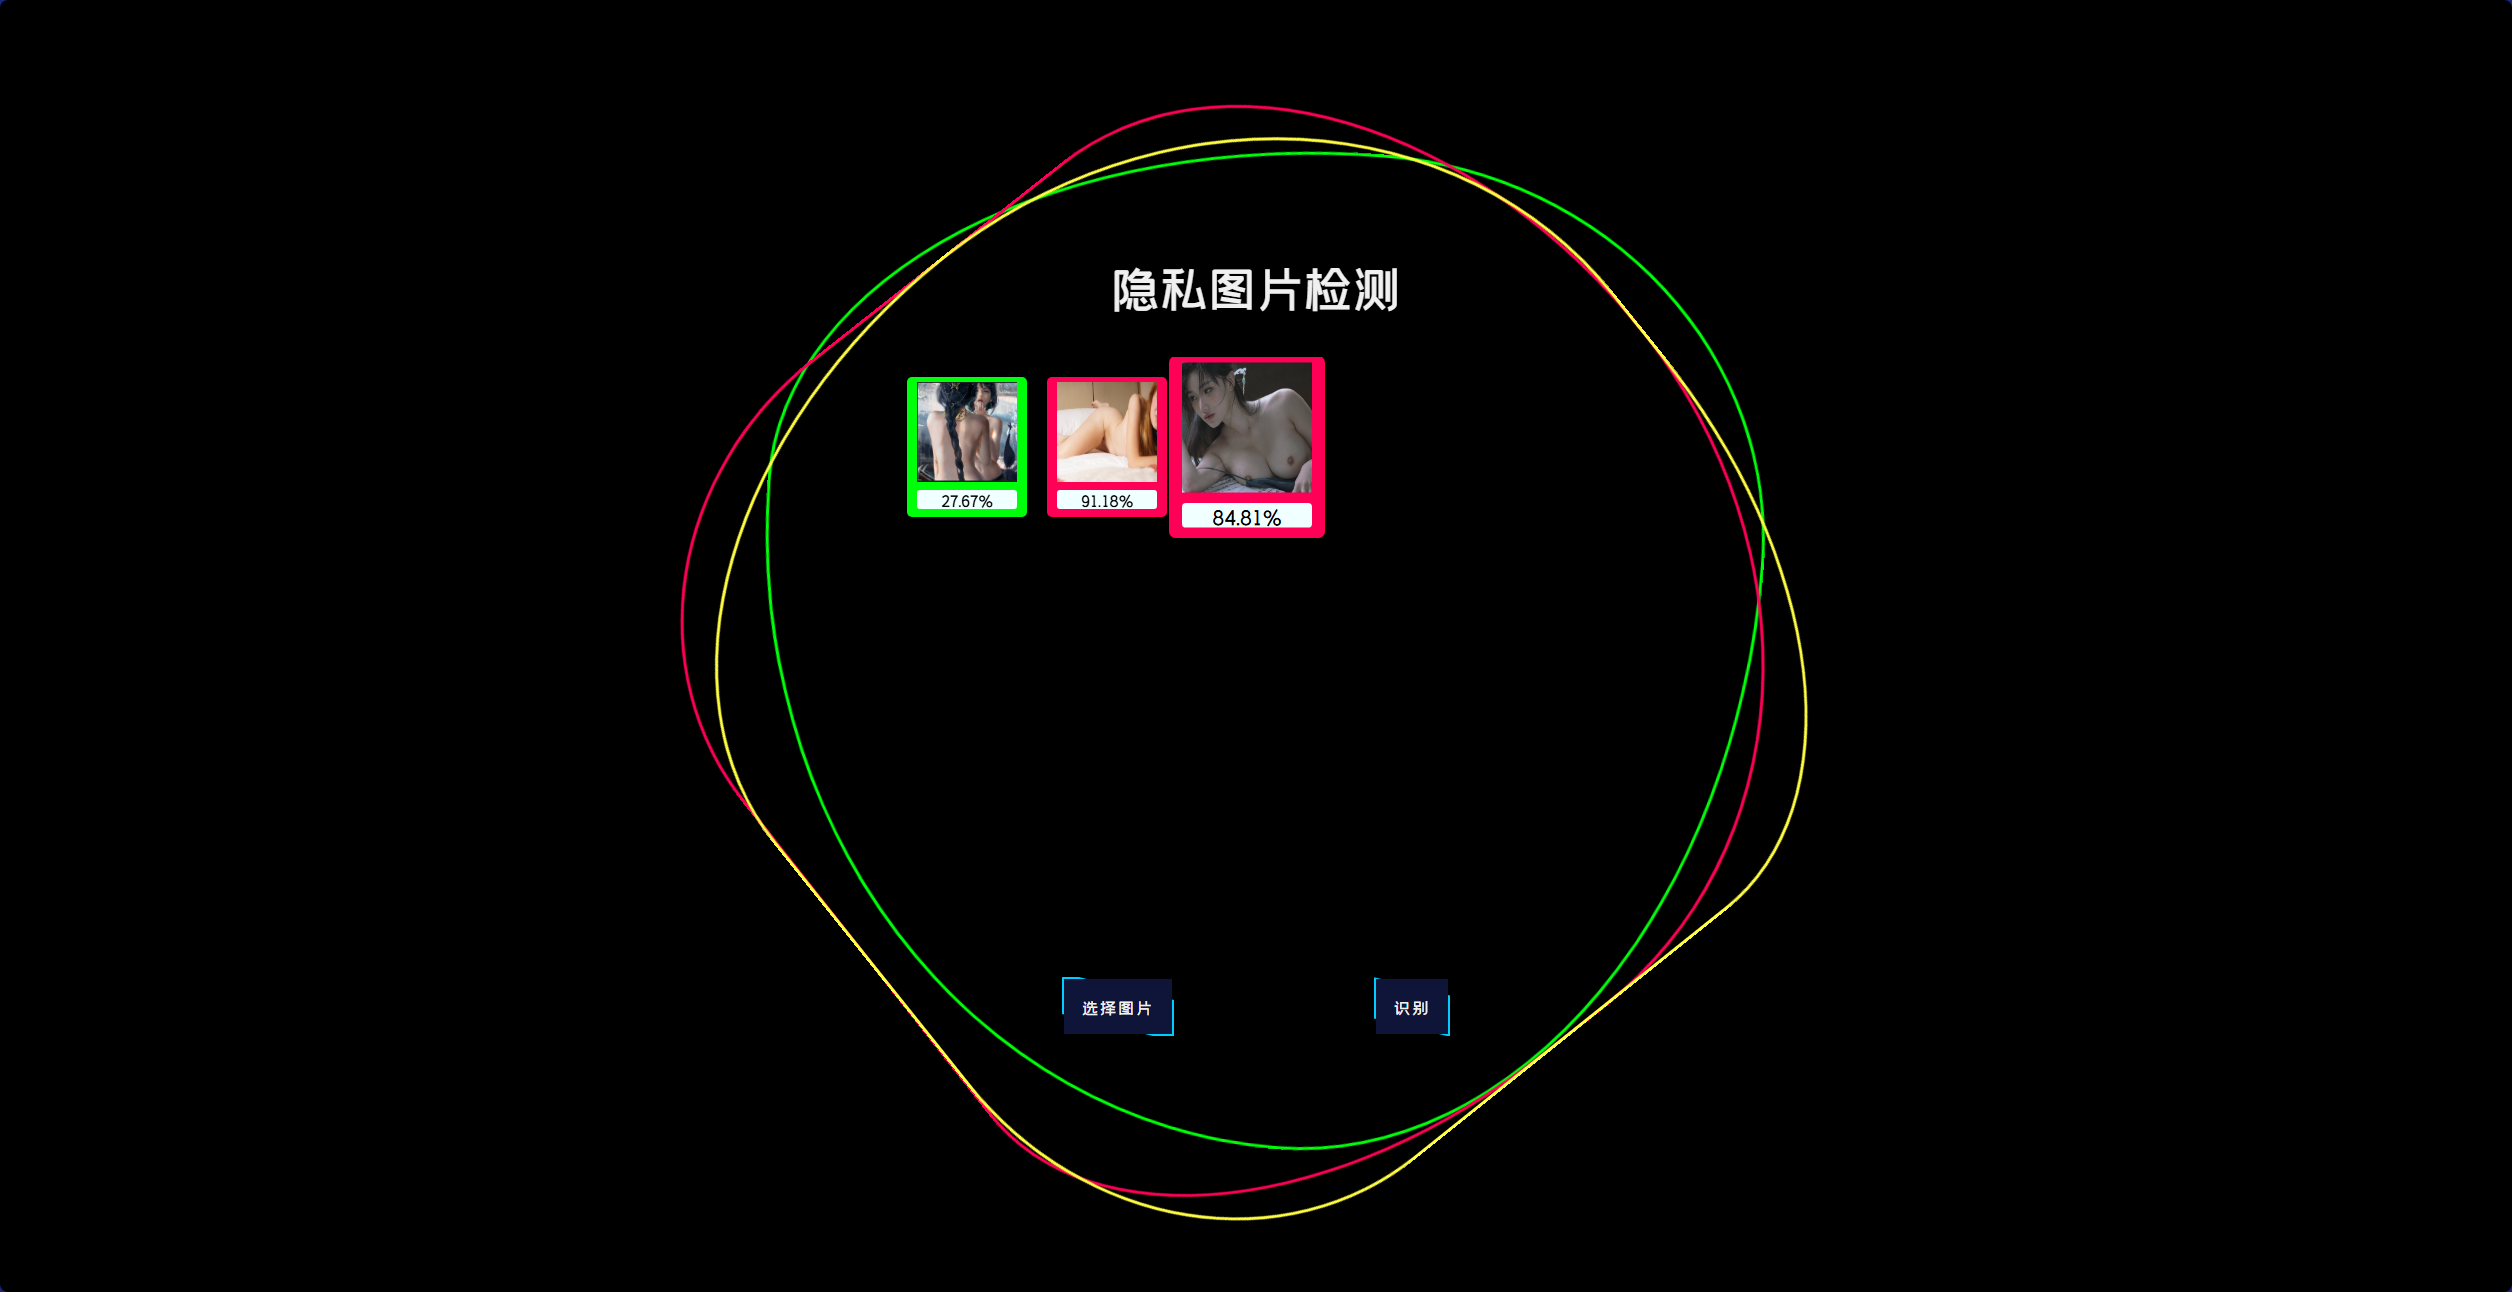
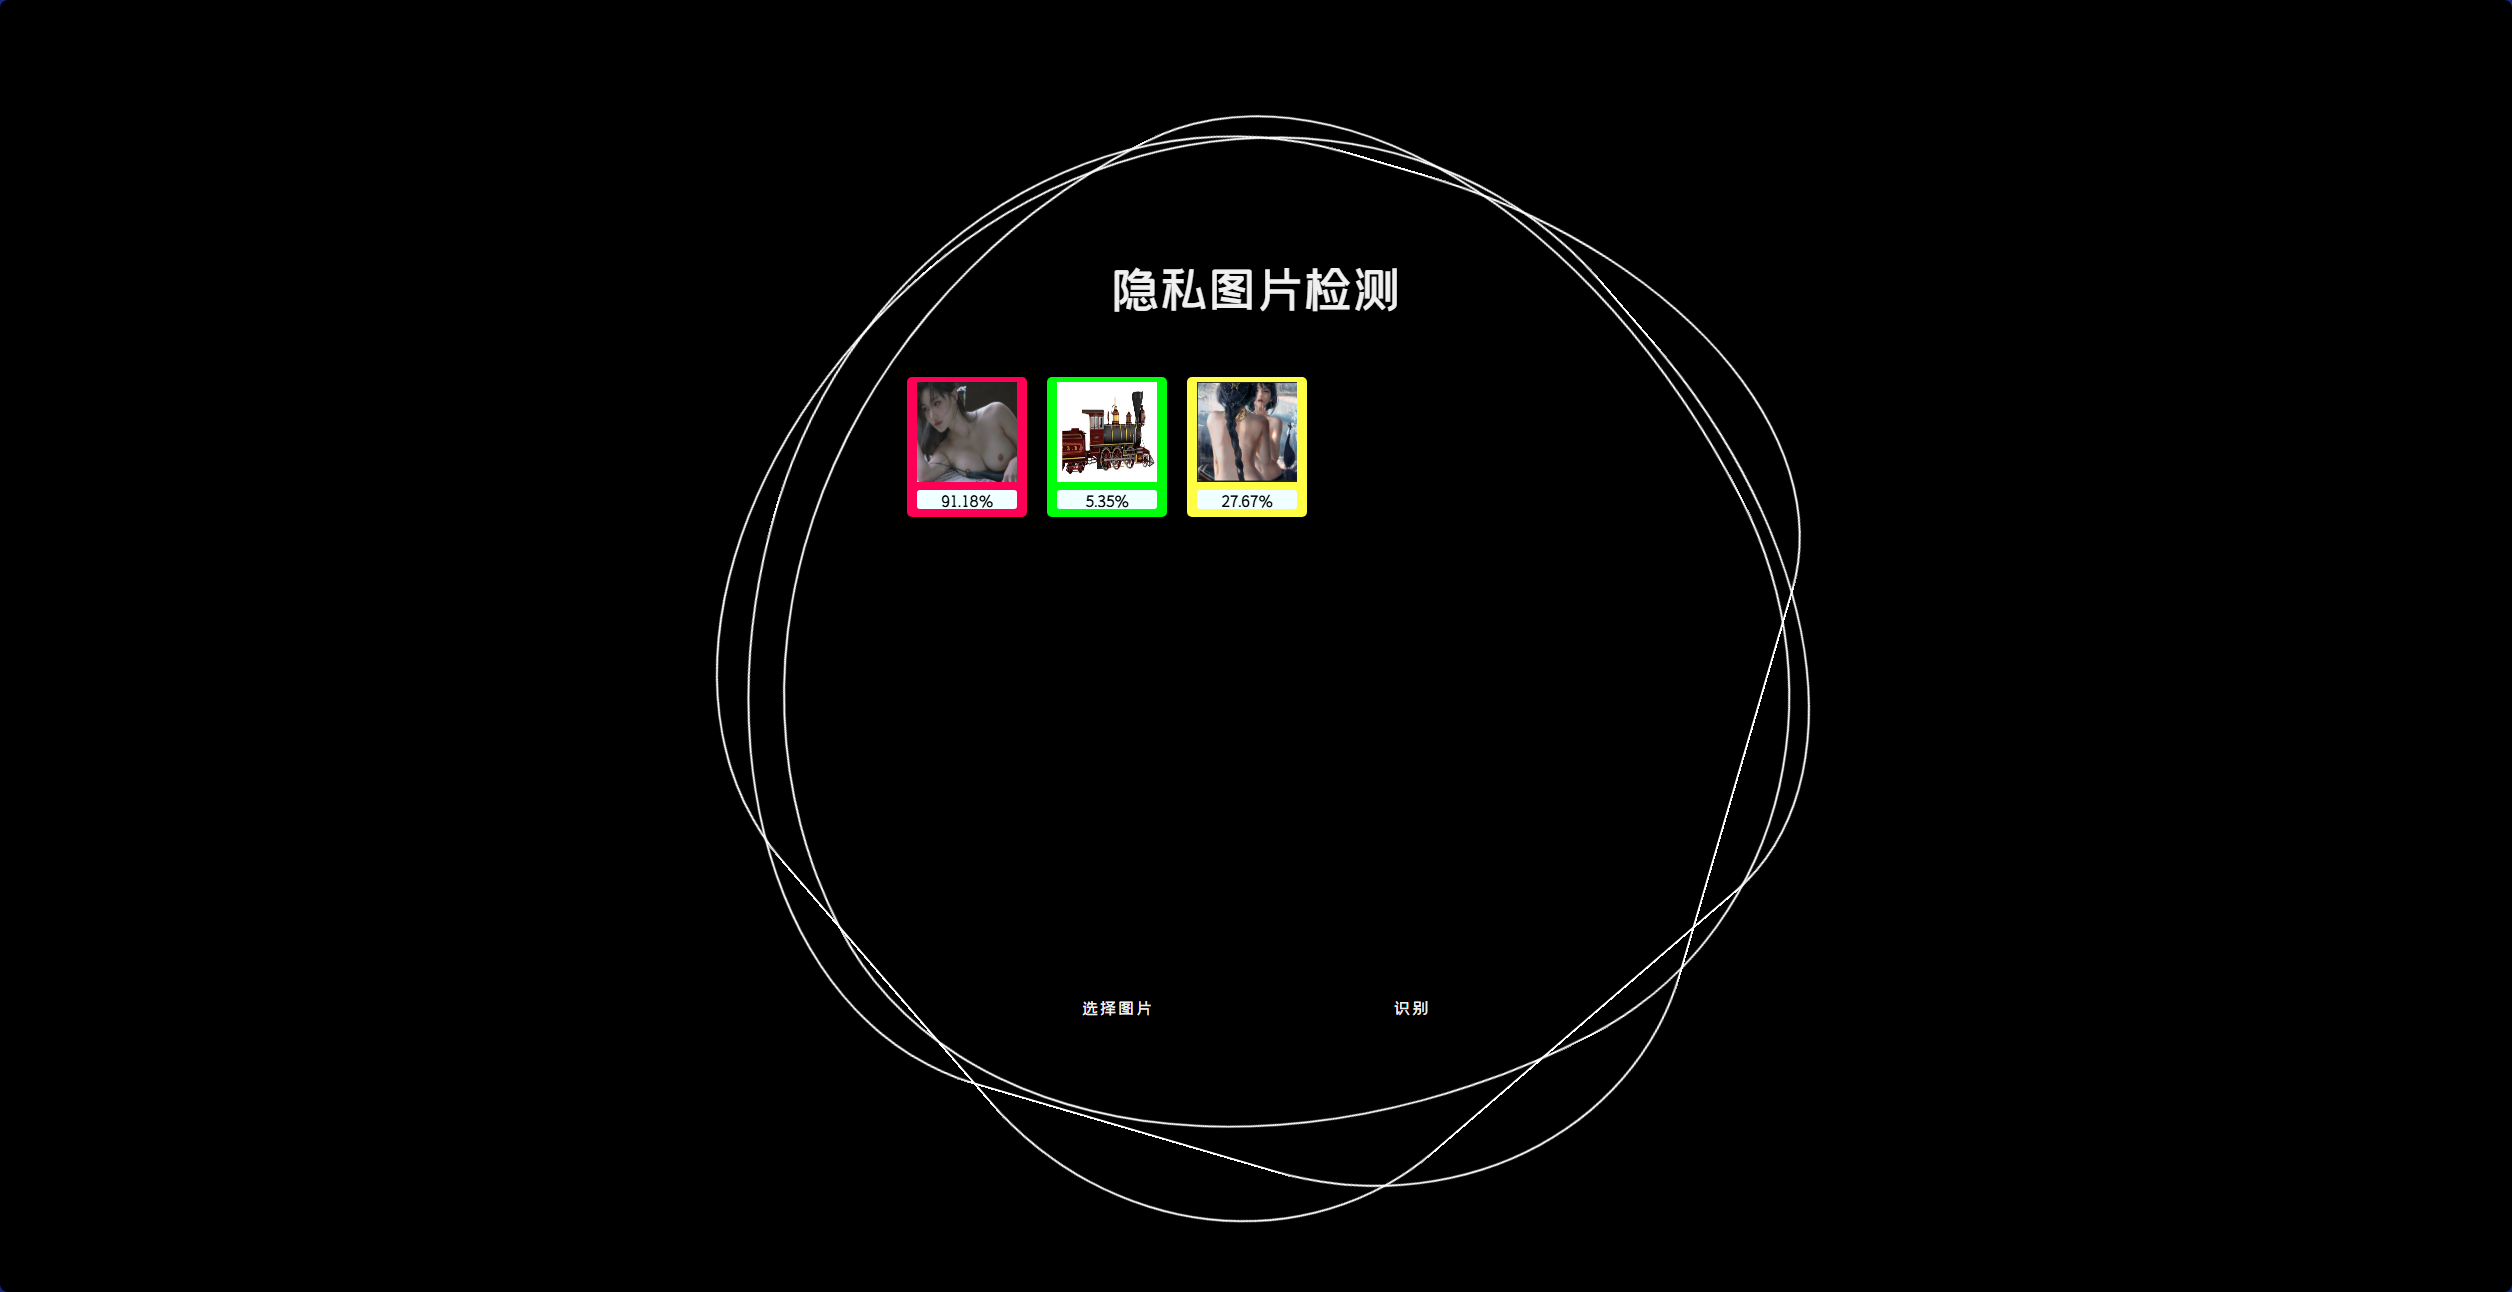
稍作修改，解决了前端显示识别结果和图片不匹配的问题

diff --git a/templates/index.html b/templates/index.html
@@ -71,15 +71,21 @@
 
         const results = await response.json();
         results.forEach((result, index) => {
-            var uploadedImgTag = document.getElementsByClassName('uploaded-img-tag');
+
+            var uploadedItem = document.getElementById(result.filename);
+            // var uploadedImgTag = document.getElementsByClassName('uploaded-img-tag');
+            var uploadedImgTag = uploadedItem.getElementsByTagName('p')[0];
+
             if (result.error) {
-                uploadedImgTag[index].innerHTML = `<div>Error: ${result.error}</div>`;
+                uploadedImgTag.innerHTML = `<div>Error: ${result.error}</div>`;
             } else {
-                uploadedImgTag[index].innerHTML = `<div>${result.probability.toFixed(2)}%</div>`;
-                if (result.probability >= 60.0)
-                    uploadedImgTag[index].parentElement.style.backgroundColor = '#ff0057';
+                uploadedImgTag.innerHTML = `<div>${result.probability.toFixed(2)}%</div>`;
+                if (result.probability <= 20.0)
+                    uploadedImgTag.parentElement.style.backgroundColor = '#00ff0a';
+                else if (result.probability <= 60.0)
+                    uploadedImgTag.parentElement.style.backgroundColor = '#fffd44';
                 else
-                    uploadedImgTag[index].parentElement.style.backgroundColor = '#00ff0a';
+                    uploadedImgTag.parentElement.style.backgroundColor = '#ff0057';
             }
         });
 
@@ -94,31 +100,69 @@
             curves[i].classList.remove('colorful');
         }
     }
-    //将上传的图片显示出来
-    document.getElementById('file').addEventListener('change', function (event) {
-        var uploadedImgsDiv = document.getElementById('uploaded-imgs');
-        uploadedImgsDiv.innerHTML = '';
 
-        var files = event.target.files;
-        for (var i = 0; i < files.length; i++) {
-            var file = files[i];
-            var reader = new FileReader();
-            reader.onload = function (e) {
-                var uploadedItem = document.createElement('div')
+
+
+    //将上传的图片显示出来
+    // document.getElementById('file').addEventListener('change', function (event) {
+    //     var uploadedImgsDiv = document.getElementById('uploaded-imgs');
+    //     uploadedImgsDiv.innerHTML = '';
+    //
+    //     var files = event.target.files;
+    //     for (var i = 0; i < files.length; i++) {
+    //         var file = files[i];
+    //         var reader = new FileReader();
+    //         reader.onload = function (e) {
+    //             var uploadedItem = document.createElement('div')
+    //             uploadedItem.classList.add('uploaded-item');
+    //             uploadedItem.id =
+    //             var img = document.createElement('img');
+    //             img.classList.add('uploaded-img');
+    //             img.src = e.target.result;
+    //             var p = document.createElement('p');
+    //             p.classList.add('uploaded-img-tag');
+    //             p.innerHTML = '待检测...';
+    //             uploadedItem.appendChild(img);
+    //             uploadedItem.appendChild(p);
+    //             uploadedImgsDiv.appendChild(uploadedItem);
+    //         };
+    //         reader.readAsDataURL(file);
+    //     }
+    // });
+    document.getElementById('file').addEventListener('change', function (event) {
+    var uploadedImgsDiv = document.getElementById('uploaded-imgs');
+    uploadedImgsDiv.innerHTML = '';
+
+    var files = event.target.files;
+    for (var i = 0; i < files.length; i++) {
+        var file = files[i];
+        var reader = new FileReader();
+
+        // 使用闭包将文件对象传递给onload回调函数
+        reader.onload = (function(file) {
+            return function (e) {
+                var uploadedItem = document.createElement('div');
                 uploadedItem.classList.add('uploaded-item');
+                uploadedItem.id = file.name;  // 将id设置为文件名
+
                 var img = document.createElement('img');
                 img.classList.add('uploaded-img');
                 img.src = e.target.result;
+
                 var p = document.createElement('p');
                 p.classList.add('uploaded-img-tag');
                 p.innerHTML = '待检测...';
+
                 uploadedItem.appendChild(img);
                 uploadedItem.appendChild(p);
                 uploadedImgsDiv.appendChild(uploadedItem);
             };
-            reader.readAsDataURL(file);
-        }
-    });
+        })(file);
+
+        reader.readAsDataURL(file);
+    }
+});
+
 </script>
 </body>
 </html>

diff --git a/README.md b/README.md
@@ -2,5 +2,5 @@
 python app.py
 ```
 运行app.py即可，然后打开127.0.0.1:5000进入前端。
-一次支持上传单张/多张图片进行推理，推理出程度>=60%会被标红，反之标绿
+一次支持上传单张/多张图片进行推理，推理出程度>=60%会被标红，<=20%会标绿，在之间的会标黄
 ![img1.png](screenshots%2Fimg1.png)
